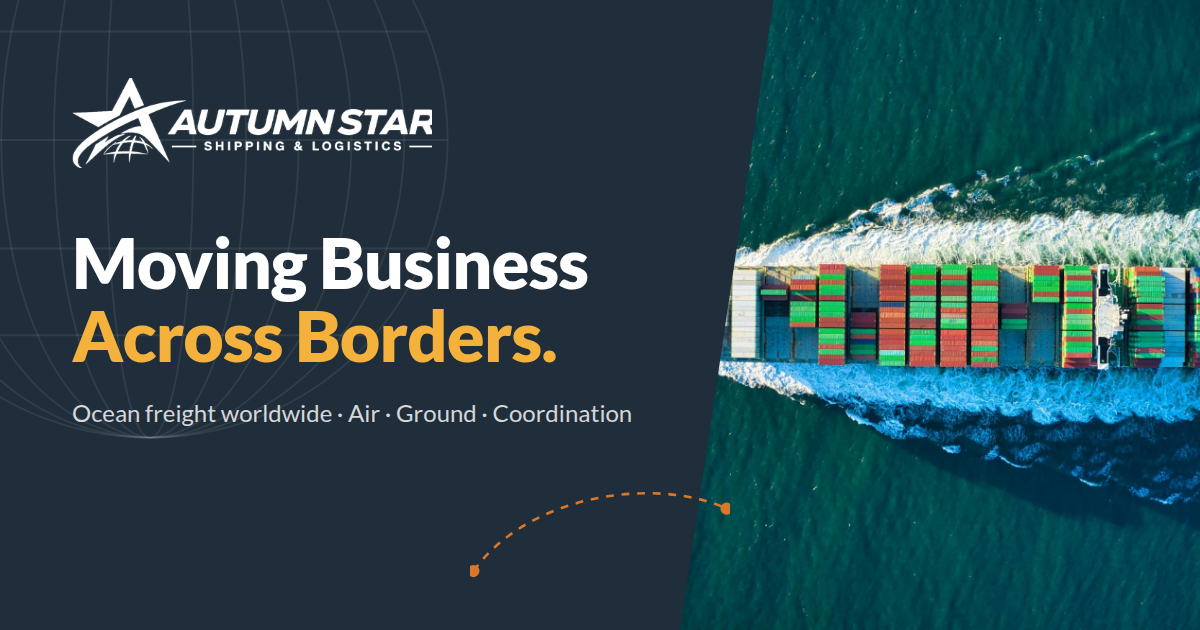
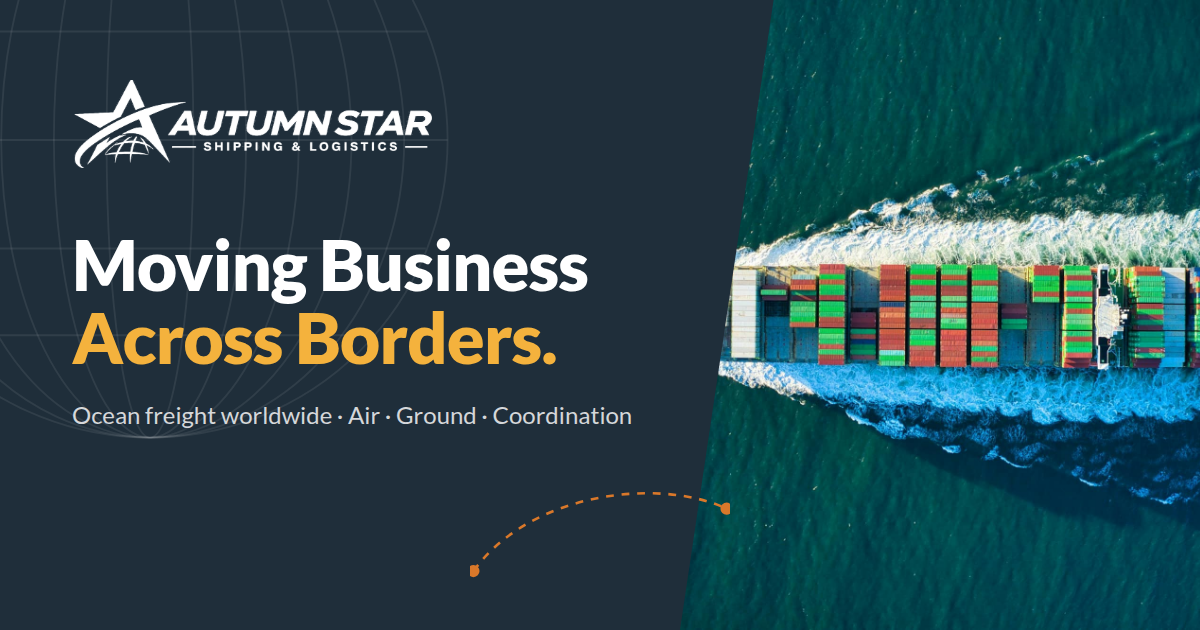
Repair the cut-off R in the Autumn Star wordmark
The supplied logo files are cropped through the R of STAR (hard edge at x=2291 of 2400). Header/footer logos and the OG image now use repaired masters: only the missing bowl/leg beyond the crop is rebuilt (fitted Montserrat ExtraBold Italic curve eased onto the logo's own edge; leg extended along its measured line), with matching clear space. Everything left of the crop is pixel-identical.

diff --git a/src/components/Header.tsx b/src/components/Header.tsx
@@ -11,7 +11,7 @@ export function Header() {
       <header className="site-header">
         <div className="container header-inner">
           <Link href="/" className="brand" aria-label={`${site.displayName}, home`}>
-            <Image src="/brand/logo.png" alt="" width={1056} height={306} priority />
+            <Image src="/brand/logo.png" alt="" width={1056} height={303} priority />
           </Link>
           <SiteNav nav={site.nav} services={services} cta={site.quoteCta} />
           <Link className="btn btn-orange header-cta" href={site.quoteCta.href}>{site.quoteCta.label}</Link>

diff --git a/src/components/Footer.tsx b/src/components/Footer.tsx
@@ -9,7 +9,7 @@ export function Footer() {
     <footer className="site-footer">
       <div className="container footer-grid">
         <div className="footer-brand">
-          <Image src="/brand/logo-white.png" alt={site.displayName} width={1056} height={306} />
+          <Image src="/brand/logo-white.png" alt={site.displayName} width={1056} height={303} />
           <p className="footer-tagline">{site.tagline}</p>
           <p>{site.description}</p>
         </div>
